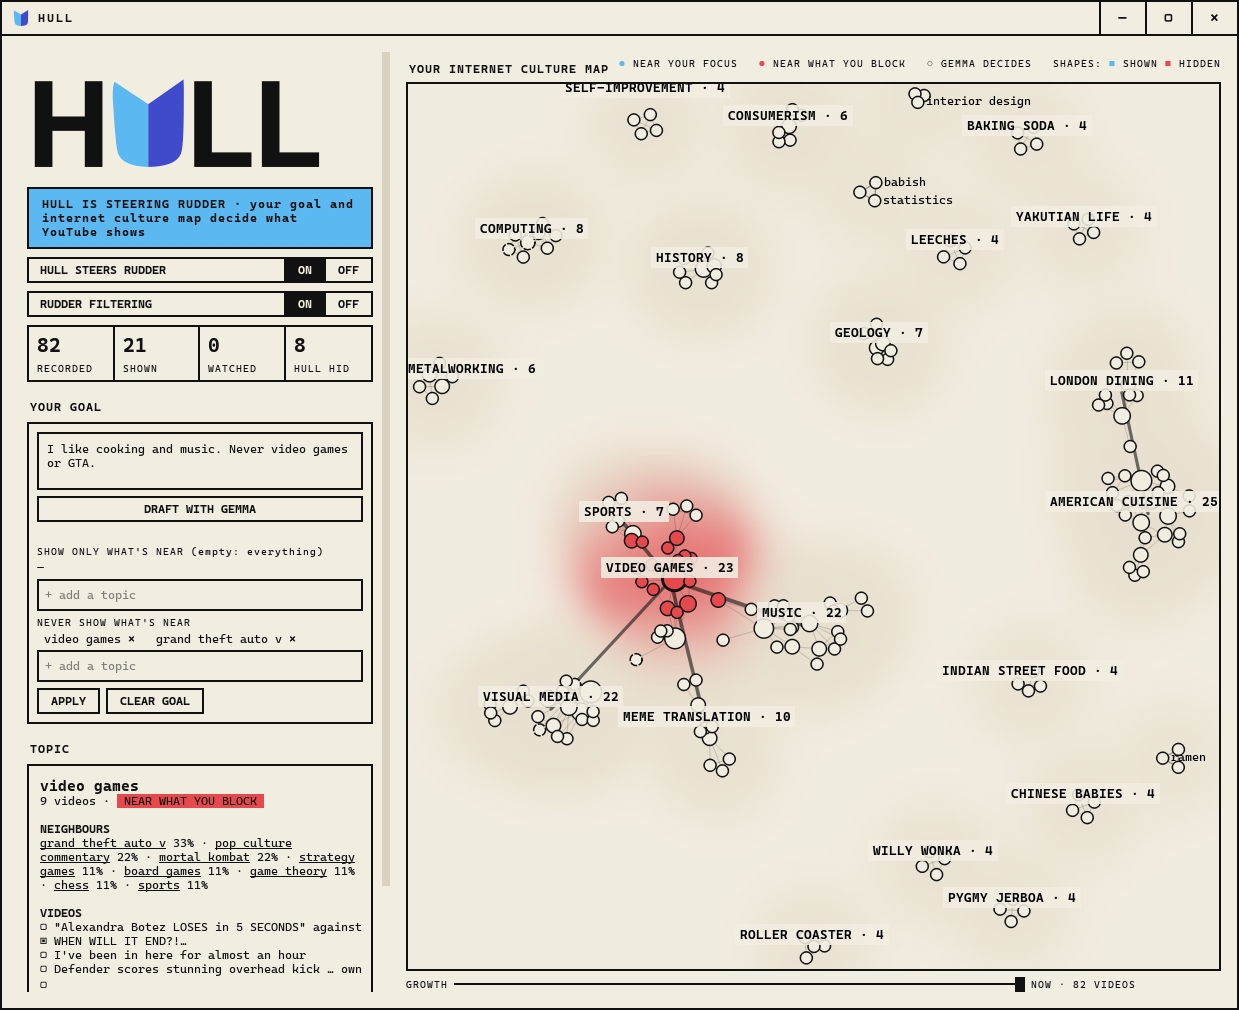
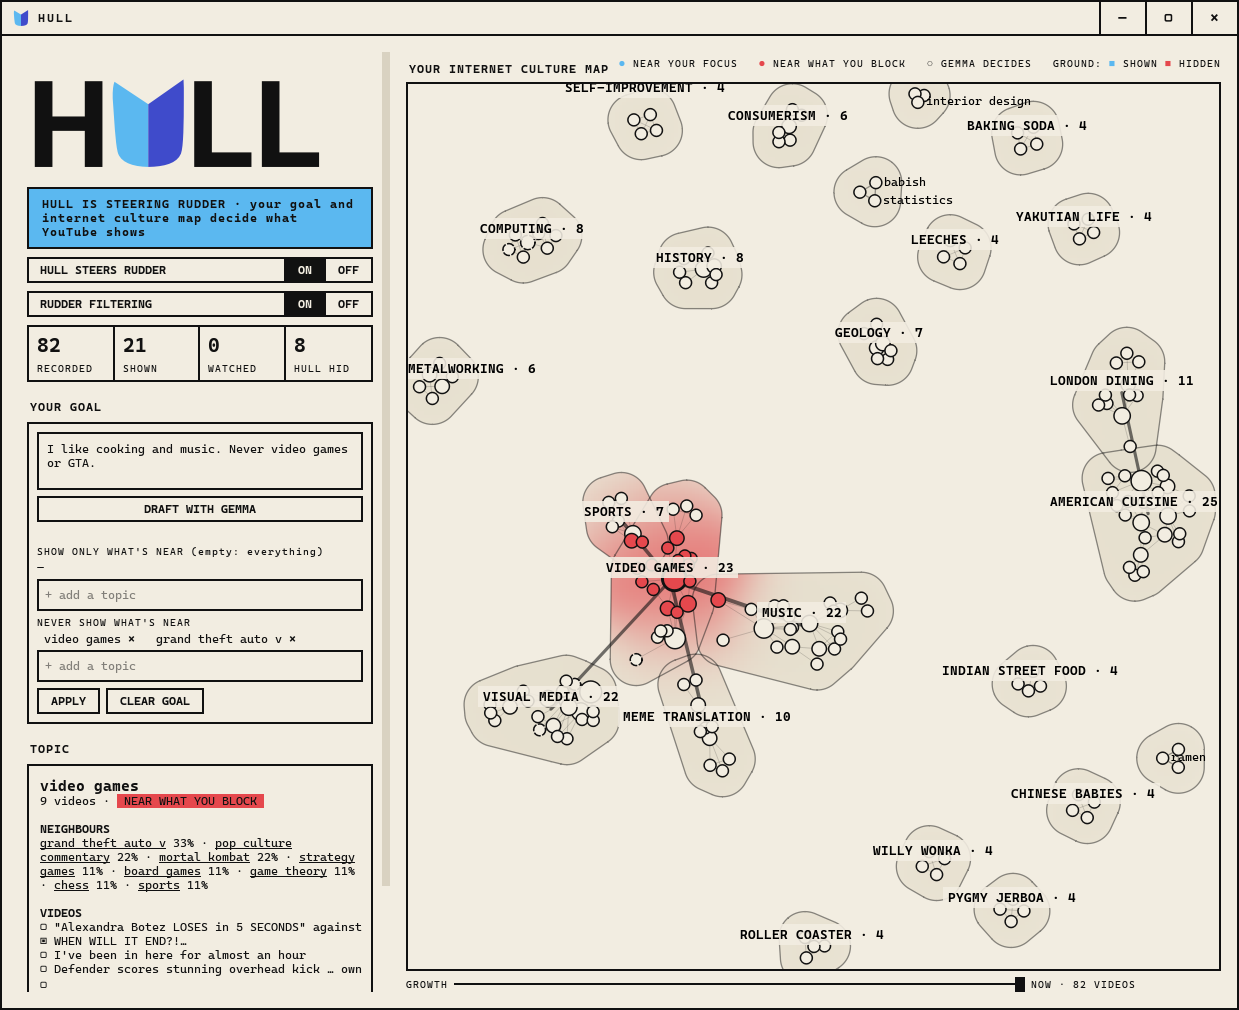
Theme borders back, holding the colour; even ground goes beige; the growth slider shows and hides what's already drawn, light while dragging and sharp when it stops

diff --git a/hull/mapview.py b/hull/mapview.py
@@ -19,7 +19,7 @@ import math
 
 import numpy as np
 from PySide6.QtCore import QPointF, QRectF, Qt, Signal
-from PySide6.QtGui import QBrush, QColor, QFont, QFontMetricsF, QImage, QPainter, QPainterPath, QPen, QPixmap, QPolygonF
+from PySide6.QtGui import QBrush, QColor, QFont, QFontMetricsF, QImage, QPainter, QPainterPath, QPainterPathStroker, QPen, QPixmap, QPolygonF
 from PySide6.QtWidgets import (QGraphicsEllipseItem, QGraphicsItem, QGraphicsLineItem, QGraphicsPathItem, QGraphicsPixmapItem, QGraphicsRectItem,
                                QGraphicsScene, QGraphicsSimpleTextItem, QGraphicsView)
 
@@ -29,6 +29,7 @@ MOST = 300  # topics drawn: the most-seen ones
 OPEN_PX = 260  # a community opens (its topics' names come out) once it's this big on screen
 GAP = 4  # px kept between names
 GLOW = 0.04  # a topic's glow reaches about this share of the map's width
+BORDER = 0.03  # a theme's border sits this share of the map's width out from its topics
 
 
 def flatten(vecs):
@@ -145,20 +146,38 @@ def hull_of(points):
     return lower[:-1] + upper[:-1]
 
 
-def read(graph, since=None):
-    """the most-seen topics (seen first by `since`, Unix seconds, if given) and the links among them"""
+def blob(points, pad):
+    """a theme's border: the hull of its topics, padded by pad all round (round corners); a lone topic is a circle"""
+    path = QPainterPath()
+    pts = hull_of(points)
+    if len(pts) == 1:
+        path.addEllipse(QPointF(*pts[0]), pad, pad)
+        return path
+    path.moveTo(QPointF(*pts[0]))
+    for q in pts[1:]:
+        path.lineTo(QPointF(*q))
+    if len(pts) > 2:
+        path.closeSubpath()
+    stroker = QPainterPathStroker()
+    stroker.setWidth(2 * pad)
+    stroker.setJoinStyle(Qt.PenJoinStyle.RoundJoin)
+    stroker.setCapStyle(Qt.PenCapStyle.RoundCap)
+    return stroker.createStroke(path).united(path).simplified()
+
+
+def read(graph):
+    """the most-seen topics, the links among them, and when each was first seen (Unix seconds), for the growth slider"""
     db = graph.db
-    rows = db.execute("""select t.name, count(*) from video_topics vt join topics t on t.id = vt.topic_id
-                         left join videos v on v.id = vt.video_id where ? is null or coalesce(v.first_recorded, 0) <= ?
-                         group by t.id order by 2 desc limit ?""", (since, since, MOST)).fetchall()
+    rows = db.execute("""select t.name, count(*), min(coalesce(v.first_recorded, 0)) from video_topics vt join topics t on t.id = vt.topic_id
+                         left join videos v on v.id = vt.video_id group by t.id order by 2 desc limit ?""", (MOST,)).fetchall()
     names = [r[0] for r in rows]
     at = {n: i for i, n in enumerate(names)}
-    links = db.execute("""select ta.name, tb.name, count(*) from video_topics a join video_topics b on a.video_id = b.video_id and a.topic_id < b.topic_id
+    links = db.execute("""select ta.name, tb.name, count(*), min(coalesce(v.first_recorded, 0)) from video_topics a
+                          join video_topics b on a.video_id = b.video_id and a.topic_id < b.topic_id
                           join topics ta on ta.id = a.topic_id join topics tb on tb.id = b.topic_id
-                          left join videos v on v.id = a.video_id where ? is null or coalesce(v.first_recorded, 0) <= ?
-                          group by a.topic_id, b.topic_id""", (since, since)).fetchall()
-    edges = [(at[a], at[b], c) for a, b, c in links if a in at and b in at]
-    return names, [r[1] for r in rows], edges
+                          left join videos v on v.id = a.video_id group by a.topic_id, b.topic_id""").fetchall()
+    kept = [(at[a], at[b], c, t) for a, b, c, t in links if a in at and b in at]
+    return names, [r[1] for r in rows], [r[2] for r in rows], [(i, j, c) for i, j, c, _ in kept], [t for *_, t in kept]
 
 
 def theme_share(marks, focused):
@@ -177,22 +196,23 @@ def rgb(hexcolor):
 def colour_field(xy, sides, weights, box, size, sigma):
     """the map's colour, worked out at every point of a grid over box (x, y, w, h) at size (columns, rows): each topic
     glows (gaussian, sigma wide, stronger the more videos it has), blue if the goal shows it (+1), red if it hides it
-    (-1), beige if neither (0). A point takes the blend of the glows around it: its colour is their colours mixed by
-    weight (violet where blue and red meet), its strength how much glow reaches it, fading to paper where there are no
-    topics. → (rows, columns, 4) RGBA bytes"""
+    (-1), beige if neither (0). A point takes the blend of the glows around it: its colour leans blue or red by their
+    weighted balance, beige where they're even; its strength is how much glow reaches it. → (rows, columns, 4) RGBA bytes"""
     cols, rows = size
     gx = box[0] + (np.arange(cols) + 0.5) * box[2] / cols
     gy = box[1] + (np.arange(rows) + 0.5) * box[3] / rows
-    paper, shade, blue, red = rgb(PAPER), rgb(SHADE), rgb(BLUE), rgb(RED)
     density = np.zeros((rows, cols))
-    mixed = np.zeros((rows, cols, 3))
+    balance = np.zeros((rows, cols))
     for (x, y), s, w in zip(xy, sides, weights):  # separable gaussian: an outer product per topic
         g = w * np.outer(np.exp(-((gy - y) / sigma) ** 2 / 2), np.exp(-((gx - x) / sigma) ** 2 / 2))
         density += g
-        mixed += g[..., None] * (blue if s > 0 else red if s < 0 else shade)
-    colour = mixed / np.maximum(density, 1e-9)[..., None]  # contested ground mixes: violet between blue and red
+        balance += s * g
+    lean = balance / np.maximum(density, 1e-9)  # -1 hidden … +1 shown; where they're even, 0: beige
     strength = 1 - np.exp(-density / 1.2)  # how much there is here
-    out = paper + (colour - paper) * (strength[..., None] * 0.8)
+    paper, shade, blue, red = rgb(PAPER), rgb(SHADE), rgb(BLUE), rgb(RED)
+    tone = np.where(lean[..., None] >= 0, blue, red)
+    colour = shade + (tone - shade) * (np.abs(lean)[..., None] * 0.85)
+    out = paper + (colour - paper) * (strength[..., None] * 0.85)
     return np.dstack([np.clip(out, 0, 255).astype(np.uint8), np.full((rows, cols), 255, np.uint8)])
 
 
@@ -220,12 +240,13 @@ class InternetCultureMap(QGraphicsView):
         self.setBackgroundBrush(QColor(PAPER))
         self.setStyleSheet(f"border: 2px solid {INK};")
         self.positions = {}  # topic → (x, y), kept between redraws so the map doesn't jump
-        self.key, self.fitted, self.selected = None, False, None
+        self.key, self.fitted, self.selected, self.at = None, False, None, None
         self.parts = None  # what apply_detail shows and hides
 
-    def draw(self, internet_culture, since=None):
-        """(re)draw from the internet culture stage's graph; marks: topic → "focus" | "block" | "ask" | None"""
-        names, counts, edges = read(internet_culture.graph, since)
+    def draw(self, internet_culture):
+        """(re)draw everything from the internet culture stage's graph; show_time then shows the map as it was at any
+        moment, without drawing again. marks: topic → "focus" | "block" | "ask" | None"""
+        names, counts, born, edges, edge_born = read(internet_culture.graph)
         marks = internet_culture.marks(names)
         ready = marks is not None  # the goal's topics are embedded: colours are known
         marks = marks or {}
@@ -257,53 +278,48 @@ class InternetCultureMap(QGraphicsView):
         members = {}
         for i, c in enumerate(group):
             members.setdefault(c, []).append(i)
-        big = {c for c, ms in members.items() if len(ms) >= 4}  # communities that get a shape and a name
+        big = {c for c, ms in members.items() if len(ms) >= 4}  # communities that get a name
 
-        # community shapes: the hull, filled, with a wide round outline in the same shade (padding that stays the
-        # same on screen)
+        # the colour: a field (colour_field) seen only inside the themes' borders, one border per theme, drawn on top
         focused = bool(internet_culture.focus) and ready
-        # the colour field behind everything: how the goal decides each part of the map, flowing between topics
         side = {"focus": 1.0, "block": -1.0}
-        sides = [side.get(marks.get(n), -1.0 if focused and marks.get(n) is None else 0.0) for n in names]
+        sides = np.array([side.get(marks.get(n), -1.0 if focused and marks.get(n) is None else 0.0) for n in names])
         span_xy = xy.max(0) - xy.min(0)
-        pad = 0.6 * float(span_xy.max())  # well past the topics, so the field never shows an edge
+        pad = 0.6 * float(span_xy.max())
         box = QRectF(*xy.min(0), *span_xy).adjusted(-pad, -pad, pad, pad)
-        cols = 520
-        rows = max(1, int(cols * box.height() / max(box.width(), 1)))
-        spread = GLOW * float(span_xy.max())  # how far a topic's glow reaches, relative to the map
-        pixels = colour_field(xy, sides, [math.sqrt(c / most) + 0.3 for c in counts], (box.x(), box.y(), box.width(), box.height()), (cols, rows), spread)
-        self._pixels = np.ascontiguousarray(pixels)  # kept alive: the image reads from it
-        image = QImage(self._pixels.data, cols, rows, cols * 4, QImage.Format.Format_RGBA8888)
-        field = QGraphicsPixmapItem(QPixmap.fromImage(image))
-        field.setTransformationMode(Qt.TransformationMode.SmoothTransformation)
-        field.setPos(box.topLeft())
-        field.setScale(box.width() / cols)
-        field.setZValue(-5)
-        scene.addItem(field)
-        # each theme: an invisible shape, for its numbers on hover
-        for c in big:
-            pts = hull_of(xy[members[c]])
-            path = QPainterPath()
-            path.addPolygon(QPolygonF([QPointF(*p) for p in pts]))
-            path.closeSubpath()
-            shape = QGraphicsPathItem(path)
-            shown, hidden = theme_share([marks.get(names[i]) for i in members[c]], focused)
-            shape.setBrush(QBrush(QColor(0, 0, 0, 1)))  # all but invisible, still under the pointer
-            shape.setPen(QPen(Qt.PenStyle.NoPen))
-            n, top = len(members[c]), names[max(members[c], key=lambda i: counts[i])]
-            likely = ("shown" if shown > hidden else "hidden") if max(shown, hidden) >= 0.5 else "decided by its own topics"
-            shape.setToolTip(f"{top}: {round(shown * n)} of {n} topics shown, {round(hidden * n)} hidden.\n"
-                             f"A new video like these will most likely be {likely}.")
-            shape.setZValue(-3 - n / 1000)  # bigger themes further back, so a small theme on top of one stays seen
-            scene.addItem(shape)
+        border = BORDER * float(span_xy.max())  # how far a border sits out from its topics
+        blobs = {}
+        for c, ms in members.items():
+            inside_ = QGraphicsPathItem()  # clips the field to the theme
+            inside_.setFlag(QGraphicsItem.GraphicsItemFlag.ItemClipsChildrenToShape)
+            inside_.setPen(QPen(Qt.PenStyle.NoPen))
+            inside_.setZValue(-5)
+            fill = QGraphicsPixmapItem(inside_)
+            fill.setTransformationMode(Qt.TransformationMode.SmoothTransformation)
+            fill.setPos(box.topLeft())
+            line = QGraphicsPathItem()  # the border
+            line.setPen(cosmetic(INK, 1.3, 120))
+            line.setBrush(QBrush(QColor(0, 0, 0, 1)))  # all but invisible, still under the pointer for its numbers
+            line.setZValue(-4 - len(ms) / 1000)  # bigger themes further back
+            if c in big:
+                shown, hidden = theme_share([marks.get(names[i]) for i in ms], focused)
+                n, top = len(ms), names[max(ms, key=lambda i: counts[i])]
+                likely = ("shown" if shown > hidden else "hidden") if max(shown, hidden) >= 0.5 else "decided by its own topics"
+                line.setToolTip(f"{top}: {round(shown * n)} of {n} topics shown, {round(hidden * n)} hidden.\n"
+                                f"A new video like these will most likely be {likely}.")
+            scene.addItem(inside_)
+            scene.addItem(line)
+            blobs[c] = (inside_, fill, line)
+        self.field = dict(sides=sides, weights=np.array([math.sqrt(c / most) + 0.3 for c in counts]), box=box,
+                          spread=GLOW * float(span_xy.max()), border=border, blobs=blobs, members=members, shown_at=None)
 
         # lines: each one, and one per pair of communities for when they're small on screen
         inside, across, between = {}, [], {}
-        for i, j, w in edges:
+        for (i, j, w), when in zip(edges, edge_born):
             line = QGraphicsLineItem(*xy[i], *xy[j])
             line.setZValue(-1)
             scene.addItem(line)
-            line.weight = w
+            line.weight, line.born = w, when
             if group[i] == group[j]:
                 inside.setdefault(group[i], []).append(line)
             else:
@@ -320,7 +336,7 @@ class InternetCultureMap(QGraphicsView):
             bundles.append((line, a, b))
 
         # dots, always drawn, and a name for each (shown by apply_detail where it fits)
-        names_of, font = {}, QFont("Cascadia Mono", 9)
+        names_of, font, dots = {}, QFont("Cascadia Mono", 9), []
         for i, (name, c) in enumerate(zip(names, counts)):
             r = 3 + 9 * math.sqrt(c / most)
             mark = marks.get(name)
@@ -335,6 +351,7 @@ class InternetCultureMap(QGraphicsView):
             dot.setFlag(QGraphicsItem.GraphicsItemFlag.ItemIgnoresTransformations)  # pins: same size at any zoom
             dot.setZValue(1)
             scene.addItem(dot)
+            dots.append(dot)
             t = QGraphicsSimpleTextItem(name, dot)
             t.setFont(QFont("Cascadia Mono", 9, QFont.Weight.Bold if c > most / 3 or name == self.selected else QFont.Weight.Normal))
             t.setPos(r + 3, -8)
@@ -363,11 +380,47 @@ class InternetCultureMap(QGraphicsView):
         lows = {c: xy[ms].min(0) for c, ms in members.items()}
         highs = {c: xy[ms].max(0) for c, ms in members.items()}
         self.parts = dict(names=names, counts=counts, group=group, xy=xy, middles=middles, lows=lows, highs=highs, big=big, span=span, inside=inside, across=across,
-                          bundles=bundles, names_of=names_of, titles=titles, font=QFontMetricsF(font))
+                          bundles=bundles, names_of=names_of, titles=titles, font=QFontMetricsF(font), dots=dots, born=np.array(born, float),
+                          seen=np.ones(len(names), bool))
         scene.setSceneRect(QRectF(*xy.min(0), *(xy.max(0) - xy.min(0))).adjusted(-80, -60, 200, 60))  # room for names
         if not self.fitted:
             self.fitInView(scene.sceneRect(), Qt.AspectRatioMode.KeepAspectRatio)
             self.fitted = True
+        self.show_time(self.at, fine=True)
+
+    def show_time(self, at=None, fine=True):
+        """the map as it was at a moment (Unix seconds; None: now): what existed then is shown, the rest hidden, nothing
+        drawn again. fine: the colour at full detail and the borders fitted to what's shown; while the growth slider
+        moves, a light version keeps it smooth"""
+        self.at = at
+        p = self.parts
+        if not p:
+            return
+        seen = p["born"] <= at if at is not None else np.ones(len(p["names"]), bool)
+        p["seen"] = seen
+        for dot, s in zip(p["dots"], seen):
+            dot.setVisible(bool(s))
+        for line in [l for ls in p["inside"].values() for l in ls] + [l for l, *_ in p["across"]]:
+            line.born_ok = at is None or line.born <= at
+        f = self.field
+        cols = 520 if fine else 150
+        box = f["box"]
+        rows = max(1, int(cols * box.height() / max(box.width(), 1)))
+        pixels = colour_field(p["xy"][seen], f["sides"][seen], f["weights"][seen], (box.x(), box.y(), box.width(), box.height()), (cols, rows), f["spread"])
+        self._pixels = np.ascontiguousarray(pixels)  # kept alive while the image is made
+        pixmap = QPixmap.fromImage(QImage(self._pixels.data, cols, rows, cols * 4, QImage.Format.Format_RGBA8888))
+        for c, (inside_, fill, line) in f["blobs"].items():
+            now = [i for i in f["members"][c] if seen[i]]
+            for item in (inside_, line):
+                item.setVisible(bool(now))
+            if not now:
+                continue
+            if fine or inside_.path().isEmpty():  # borders fitted to what's shown; while sliding, the last ones stay
+                shape = blob(p["xy"][now], f["border"])
+                inside_.setPath(shape)
+                line.setPath(shape)
+            fill.setPixmap(pixmap)
+            fill.setScale(box.width() / cols)
         self.apply_detail()
 
     def apply_detail(self):
@@ -377,21 +430,24 @@ class InternetCultureMap(QGraphicsView):
         if not p:
             return
         zoom = self.transform().m11()
-        closed = {c for c in p["big"] if p["span"][c] * zoom < OPEN_PX}
+        seen = p["seen"]
+        alive = {p["group"][i] for i in range(len(seen)) if seen[i]}  # themes with something shown at this moment
+        closed = {c for c in p["big"] if p["span"][c] * zoom < OPEN_PX and c in alive}
         for c, lines in p["inside"].items():
             for line in lines:
+                line.setVisible(getattr(line, "born_ok", True))
                 line.setPen(cosmetic(INK, 1 if c in closed else 1 + 0.5 * math.log1p(line.weight), 45 if c in closed else min(190, 70 + 30 * line.weight)))
         for line, a, b in p["across"]:
-            line.setVisible(a not in closed or b not in closed)  # an open community shows its own lines
+            line.setVisible((a not in closed or b not in closed) and getattr(line, "born_ok", True))  # an open community shows its own lines
             line.setPen(cosmetic(INK, 1 + 0.5 * math.log1p(line.weight), min(170, 50 + 30 * line.weight)))
         for line, a, b in p["bundles"]:
-            line.setVisible(a in closed and b in closed)  # between two closed communities: one line
+            line.setVisible(a in closed and b in closed)  # between two closed communities: one line (both have something shown)
 
         # names, most important first; each must keep GAP px from every name already placed
         size = {c: p["group"].count(c) for c in closed}
         want = [(1e9 + size[c], "title", c) for c in closed]  # bigger themes name themselves first
         want += [(p["counts"][i] + (1e8 if p["names"][i] == self.selected else 0), "name", i)
-                 for i in range(len(p["names"])) if p["group"][i] not in closed]
+                 for i in range(len(p["names"])) if p["group"][i] not in closed and seen[i]]
         placed, view = [], self.viewport().rect()
         for t, _ in p["names_of"].values():
             t.setVisible(False)

diff --git a/hull/app.py b/hull/app.py
@@ -3,7 +3,7 @@ your internet culture map. Hull itself (hull/link.py) runs on a thread of its ow
 Closing the window keeps Hull going in the system tray; Quit there takes Hull's stages out of Rudder and stops.
 
 Styled like Rudder's popup: paper, ink, square 2px borders, monospace, uppercase headings, Rudder blue."""
-import asyncio, html, logging, sys, threading, time
+import asyncio, bisect, html, logging, sys, threading, time
 from pathlib import Path
 
 from PySide6.QtCore import QObject, Qt, QTimer, Signal
@@ -417,7 +417,9 @@ class Window(QMainWindow):
         self.slider = QSlider(Qt.Orientation.Horizontal)
         self.slider.setRange(0, 1000)
         self.slider.setValue(1000)
-        self.slider.valueChanged.connect(self.redraw)
+        self.slider.valueChanged.connect(self.slide)
+        self.sharpen = QTimer(self, singleShot=True, interval=160, timeout=lambda: self.map.show_time(self.since(), fine=True))
+        self.times = []  # every video's first sighting, sorted: the slider's dates and counts without asking the database
         when.addWidget(self.slider, 1)
         self.when = label("NOW", "lbl")
         self.when.setMinimumWidth(190)
@@ -454,18 +456,29 @@ class Window(QMainWindow):
 
     def since(self):
         """the slider's time (Unix seconds), or None at the right end: now, growing live"""
-        first = self.hull.store.db.execute("select min(first_recorded) from videos").fetchone()[0]
-        if self.slider.value() >= 1000 or not first:
+        if self.slider.value() >= 1000 or not self.times:
             return None
+        first = self.times[0]
         return first + (time.time() - first) * self.slider.value() / 1000
+
+    def show_when(self):
+        t = self.since()
+        n = len(self.times) if t is None else bisect.bisect_right(self.times, t)
+        self.when.setText(("NOW" if t is None else time.strftime("%d %b %H:%M", time.localtime(t)).upper()) + f" · {n} VIDEOS")
+
+    def slide(self):
+        """the growth slider: show the map as it was, light while it moves, in full detail once it stops"""
+        self.show_when()
+        self.map.show_time(self.since(), fine=False)
+        self.sharpen.start()
 
     def redraw(self):
         if not self.internet_culture:
             return
-        t = self.since()
-        n = self.hull.store.db.execute("select count(*) from videos where ? is null or first_recorded <= ?", (t, t)).fetchone()[0]
-        self.when.setText(("NOW" if t is None else time.strftime("%d %b %H:%M", time.localtime(t)).upper()) + f" · {n} VIDEOS")
-        self.map.draw(self.internet_culture, t)
+        self.times = [r[0] for r in self.hull.store.db.execute("select first_recorded from videos where first_recorded is not null order by 1")]
+        self.show_when()
+        self.map.at = self.since()
+        self.map.draw(self.internet_culture)
 
     def pick(self, name):
         """a topic's details: how often, what the goal does with it, its neighbours, its videos"""

diff --git a/docs/how-it-works.md b/docs/how-it-works.md
@@ -54,12 +54,12 @@ Hull checks every video Rudder filters (the home page, the sidebar beside a vide
 - **Your internet culture map.**
   - Every topic is a pin, sized by how many videos you've seen on it, and topics that share videos are joined by lines.
   - Pins sit by meaning and by neighbours, so your internet culture forms clusters.
-  - Behind the map, a colour field: every topic glows blue if your goal shows it, red if it hides it, beige if neither, bigger topics further, and each point blends the glows around it by distance, violet where blue and red meet. Where a new video lands, the colour under it is its neighbours' consensus: it will most likely go the same way.
+  - Each theme has a border, and inside it a colour field: every topic glows blue if your goal shows it, red if it hides it, beige if neither, bigger topics further, and each point leans blue or red by the balance of the glows around it, beige where they're even. Where a new video lands, the colour under it is its neighbours' consensus: it will most likely go the same way.
   - Themes (communities found with Louvain: music, gaming, cooking…) carry one name while small on screen; hover a theme for how much of it is shown and hidden. Zoomed out, each theme shows one name, its most-seen topic and how many topics it holds, and the lines between two themes become one thick line. Zoom in and a theme opens: its topics' names and every line come back.
   - A name is drawn only where it has room: the most-seen go first, and a name that would touch another waits until you zoom in. Every dot is always drawn, and hovering one shows its name.
   - Blue is near your focus, red near what you block, and dashed where Gemma still decides.
   - Wheel to zoom, drag to move, click a pin for its videos and neighbours.
-  - The *growth* slider replays how the map grew.
+  - The *growth* slider replays how the map grew: topics, lines and themes appear in place as they were first seen, light while you drag and in full detail once you stop.
 - **The tray.** Closing the window keeps Hull steering from the tray: a blue hull while it steers, grey when it doesn't. Quit there takes Hull's stages out of Rudder.
 - **In Rudder's popup.** Hull's panel shows whether it's steering, your goal, and its numbers. If Hull stops without cleaning up, Rudder's pipeline marks Hull's stages as "hull not running", striped while they hide what they'd check.
 
